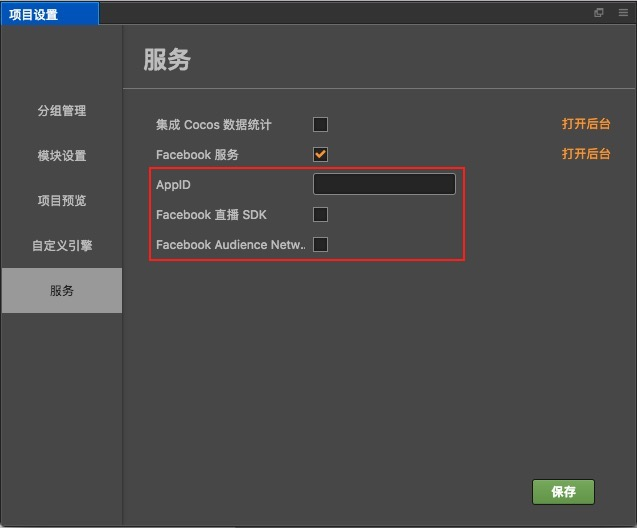
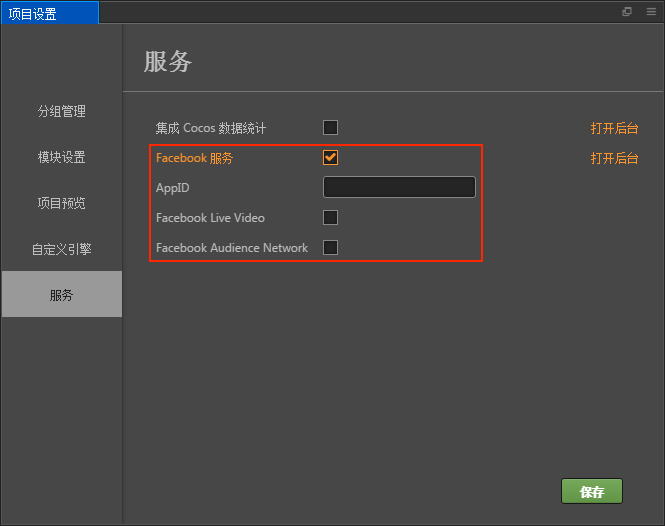
修正部分内容及增加英文版本

diff --git a/zh/sdk/fb-an-and-live.md b/zh/sdk/fb-an-and-live.md
@@ -2,56 +2,69 @@
 
 Cocos Creator 从 v2.0.6 开始支持一键集成 Facebook 服务，包括 **Facebook Live Video** 和 **Facebook Audience Network**。这两个 SDK 目前支持 Android 和 iOS 平台。
 
-Creator 为用户完成的主要工作包括：
+**Creator 为用户完成的主要工作**：
 
 - 在 Cocos Creator 项目设置面板中提供一键式集成 Facebook Live Video 和 Facebook Audience Network，并且自动进行了初始化，用户能直接调用相关的 API
 
-用户需要完成的工作：
+**用户需要完成的工作**：
 
 - 调用 Facebook Live Video 和 Facebook Audience Network 的 API，访问相关功能
 
 ## Facebook 服务集成操作步骤
 
-1、使用 Cocos Creator 打开项目工程，点击 **菜单栏 -> 项目 -> 项目设置 -> 服务**，在 **服务** 面板中有一个 **Facebook 服务**。
+一、使用 Cocos Creator 打开项目工程，点击 **菜单栏 -> 项目 -> 项目设置 -> 服务**，在 **服务** 面板中有一个 **Facebook 服务**。
 
 ![](fb-an-and-live/facebook.png)
 
 选中 **Facebook 服务**，可以看到下方有三个选项，分别为：
 
-- **AppID**：在 [Facebook 开发者后台](https://developers.facebook.com/) 的 **我的应用** 中创建一款新应用（或者之前创建过的就应用也可以）。创建完成后上方的 **应用编号** 即是 AppID。
+- **AppID**：在 [Facebook 开发者后台](https://developers.facebook.com/) 的 **我的应用** 中创建一款新应用（或者之前创建过的旧应用也可以）。创建完成后上方的 **应用编号** 即是 AppID。
 - **Facebook Live Video**：将 Facebook Live Video 集成到项目工程中
 - **Facebook Audience Network**：将 Facebook Audience Network 集成到项目工程中
 
-2、在 **项目设置 -> 服务** 中设置好需要集成的 SDK 后，打开 **构建发布** 面板，发布平台选择 **Android／iOS** 平台，其他参数用户可根据需要自行配置。配置完成后点击 **构建**。
+二、在 **项目设置 -> 服务** 中设置好需要集成的 SDK 后，打开 **构建发布** 面板，**发布平台** 选择 **Android／iOS** 平台。Android 平台的 **API Level** 选择 **android-26** 及以上。其他参数用户可根据需要自行配置。配置完成后点击 **构建**。
 
-**注意**：在 **构建 iOS 平台之前** 需要先下载 Facebook 服务相关的依赖，执行如下的命令。具体可参考 [CocoaPods 官方网站](https://cocoapods.org/)。
+**构建 iOS 平台时有以下两点注意事项**：
 
-  ```bash
-  # Xcode 8 + 9
-  $ sudo gem install cocoapods
-  ```
+  - 在 **构建之前** 需要先下载 Facebook 服务相关的依赖，在命令行中执行以下命令。具体可参考 [CocoaPods 官方网站](https://cocoapods.org/)。
 
-  若运行该命令时出现如下报错：
+    ```bash
+    # Xcode 8 + 9
+    $ sudo gem install cocoapods
+    ```
 
-  ![](fb-an-and-live/error.png)
+    若运行该命令时出现如下报错：
 
-  可运行以下命令解决：
+    ![](fb-an-and-live/error.png)
 
-  ```bash
-  $ gem source -r https://rubygems.org/
-  $ gem source -a http://rubygems.org/
-  $ sudo gem install cocoapods
-  ```
+    可运行以下命令解决：
 
-  点击 **构建** 之后，若构建失败并且在 **控制台** 出现 `Some error have occurred while adding Facebook Audience Network iOS SDK undefined`，则国内用户需要保证在命令行中执行的命令能启用墙外代理。然后重启 Creator，并删除之前的发布包，再次执行 **构建**。
+    ```bash
+    $ gem source -r https://rubygems.org/
+    $ gem source -a http://rubygems.org/
+    $ sudo gem install cocoapods
+    ```
 
-3、 构建完成后在发布包目录的 src 目录下可以看到生成了 **fb-live-stream.js** 和 **CCAds.js** 两个文件，分别对应的是 Creator 完成的对 **Facebook Live Video** 和 **Facebook Audience Network** 的封装。
+  - 若点击 **构建** 之后，构建失败并且在 **控制台** 出现 `exec pod install fail with exit code` 的报错，可在 **设置** 面板的 **常规 -> HTTP 代理服务器** 中设置 HTTP 代理（用于下载 Facebook 的 SDK）。
+
+    若设置完 HTTP 代理之后仍然构建失败，请尝试执行以下步骤：<br>
+
+    ```bash
+    # 国内用户需要保证在命令行中执行的命令能启用墙外代理
+    # 将命令行指定到项目的 /build/jsb-link/frameworks/runtime-src/proj.ios_mac 目录下
+    $ cd /YourProject/build/jsb-link/frameworks/runtime-src/proj.ios_mac
+    $ pod install
+    ```
+
+    执行完毕之后可以在 **proj.ios_mac** 目录下看到生成了 `.xcworkspace` 文件，即可直接使用 Xcode 打开进行编译。
+
+三、构建完成后在发布包目录的 src 目录下可以看到生成了 **fb-live-stream.js** 和 **CCAds.js** 两个文件，分别对应的是 Creator 完成的对 **Facebook Live Video** 和 **Facebook Audience Network** 的封装。
 
 ![](fb-an-and-live/package.png)
 
 **注意**：
 
-- 首次编译 Android 平台需要用 Android Studio 打开构建后的工程以下载所需的支持包。（如果下载失败的话建议切换网络或者设置一下 Android Studio 的 HTTP 代理）
+- 首次编译 Android 平台需要用 Android Studio 打开构建后的工程以下载 Facebook 所需的支持包。（如果下载失败的话建议切换网络或者设置一下 Android Studio 的 HTTP 代理）
 - 在使用 Xcode 编译 iOS 平台的时候需要打开的是 `.xcworkspace` 文件而不是 `.xcodeproj` 文件。
 
 ![](fb-an-and-live/xcode.png)
@@ -73,11 +86,11 @@ Creator 为用户完成的主要工作包括：
 
 Facebook Audience Network 分别有以下三种：
 
-- `cc.Ads.Banner`：弹出底部广告条
+- `cc.Ads.Banner`：弹出 banner 广告
 - `cc.Ads.RewardedVideo`：弹出奖励视频窗口广告
 - `cc.Ads.Interstitial`：弹出插屏广告
 
-以弹出底部广告条 `cc.Ads.Banner` 为例，用户可以通过创建一个新的 `cc.Ads.Banner` 对象的实例，然后根据自己的需要去调用。示例代码如下：
+以弹出 banner 广告 `cc.Ads.Banner` 为例，用户可以通过创建一个新的 `cc.Ads.Banner` 对象的实例，然后根据自己的需要去调用。示例代码如下：
 
 ```js
 banner_click(event){
@@ -112,4 +125,5 @@ banner_click(event){
 
 - Cocos Creator 提供的 [Facebook 服务集成范例工程](https://github.com/cocos-creator/facebook_demo)，包含了 **Facebook Live Video** 和 **Facebook Audience Network** 的使用示例。
 - [Facebook 开发者后台](https://developers.facebook.com/)
-- [Facebook Audience Network](https://developers.facebook.com/docs/audience-network/)
+- [Facebook Audience Network 参考文档](https://developers.facebook.com/docs/audience-network/)
+- [Facebook Live Video 参考文档](https://developers.facebook.com/docs/videos/live-video)

diff --git a/en/sdk/fb-an-and-live.md b/en/sdk/fb-an-and-live.md
@@ -1,0 +1,116 @@
+# Facebook Live Video and Audience Network
+
+Starting with v2.0.6, Cocos Creator officially supports one-click integrated Facebook services, including **Facebook Live video** and **Facebook audience network**. These two SDKs currently support Android and iOS platforms.
+
+**Cocos Creator includes**:
+
+- Provides one-click integration of Facebook Live Video and Facebook Audience Network in the Cocos Creator **Project Settings** panel, and is automatically initialized so that users can call the relevant APIs directly
+
+**What the user needs to do**:
+
+- Call the APIs of Facebook Live Video and Facebook Audience Network to access related features
+
+## Facebook Service Integration Operation Steps
+
+**First**, open the project with Cocos Creator, click on the **Menu bar -> Project -> Project Settings -> Service** and there is a **Facebook Service** in the **Service** tab.
+
+![](fb-an-and-live/facebook.png)
+
+Select the **Facebook Service** and you can see that there are three options below, namely:
+
+  - **AppID**: Create a new app (or an old app you've created before) in the [Facebook Developer Center](https://developers.facebook.com/) **My AppS -> Add New App**. The **APP ID** above when the creation is complete is AppID.
+  - **Facebook Live Video**: Integrate Facebook Live Video into Project.
+  - **Facebook Audience Network**: Integrate Facebook Audience Network into Project.
+
+**Second**, after you set up the SDK that needs to be integrated in the **Project Settings -> Service**, open the **Build** panel and the **Platform** selects the **Android/iOS** platform. The **API Level** of the Android platform selects **android-26** and above. Other parameters the user can configure themselves as needed. When the configuration is complete, click **Build**.
+
+  **Note**: **Before you build the iOS platform**, you need to download the dependencies associated with the Facebook service and execute the following command on the command line. Please refer to [CocoaPods official website](https://cocoapods.org/) for detail.
+
+  ```bash
+  # Xcode 8 + 9
+  $ sudo gem install cocoapods
+  ```
+
+  If you run the command, the following error occurs:
+
+  ![](fb-an-and-live/error.png)
+
+  You can run the following command to resolve:
+
+  ```bash
+  $ gem source -r https://rubygems.org/
+  $ gem source -a http://rubygems.org/
+  $ sudo gem install cocoapods
+  ```
+
+**Third**, after the build is complete, you can see that **fb-live-stream.js** and **CCAds.js** two files have been generated under the src directory in the build directory. Corresponding to the encapsulation of **Facebook Live Video** and **Facebook Audience Network** by Creator.
+
+![](fb-an-and-live/package.png)
+
+**Note**:
+
+- Compiling the Android platform for the first time requires using Android Studio to open the built-after project to download the support packages that Facebook needs. (If the download fails, it is recommended to switch the network or set up the HTTP proxy for Android Studio)
+- When you use Xcode to compile the iOS platform, you need to open `.xcworkspace` file instead of `.xcodeproj` file.
+
+  ![](fb-an-and-live/xcode.png)
+
+## Invoking related APIs
+
+### Facebook Live Video
+
+You can access Facebook Live Video through the `fb.liveStream` module:
+
+- `fb.liveStream.startLive();`: Start playing
+- `fb.liveStream.stopLive();`: Stop playing
+- `fb.liveStream.pauseLive();`: Pause playing
+- `fb.liveStream.resumeLive();`: Resume playing
+
+For details, please refer to the [/assets/script/live_scene.js](https://github.com/cocos-creator/facebook_demo/blob/master/assets/script/live_scene.js) file in [Sample Project](https://github.com/cocos-creator/facebook_demo).
+
+### Facebook Audience Network
+
+There are three types of Facebook Audience Network:
+
+- `cc.Ads.Banner`: Pop up banner ad
+- `cc.Ads.RewardedVideo`: Pop up reward video window ad
+- `cc.Ads.Interstitial`：Pop up placard ad
+
+Taking the pop up banner ad `cc.Ads.Banner` as an example, the user can create an instance of a new `cc.Ads.Banner` object and then call it according to your needs.
+
+The sample code is as follows:
+
+```js
+banner_click(event){
+    let banner = new cc.Ads.Banner(this.placementId.BANNER, cc.Ads.BANNER_POSITION.ALIGN_PARENT_BOTTOM);
+    this.banner = banner;
+    banner.on("onAdLoaded", () => {
+        cc.log("banner onAdLoaded");
+        this.status_tips.string = "banner loaded";
+    }, this.node);
+
+    banner.on("onError", (eCode) => {
+        cc.log("banner onError");
+        this.status_tips.string = "banner onError";
+    }, this.node);
+
+    banner.on("onAdClicked", () => {
+        cc.log("banner onAdClicked");
+        this.status_tips.string = "banner onAdClicked";
+    }, this.node);
+
+    banner.show().then(() => {
+        cc.log("banner show-------");
+    }).catch((e) => {
+        cc.log("banner reject ", e);
+    });
+},
+```
+
+`cc.Ads.RewardedVideo` and `cc.Ads.Interstitial` are called in a similar way to `cc.Ads.Banner` and you can refer the [/assets/script/an_scene.js](https://github.com/cocos-creator/facebook_demo/blob/master/assets/script/an_scene.js) file in [Sample Project](https://github.com/cocos-creator/facebook_demo). Or refer to Facebook's official documentation [Audience Network](https://developers.facebook.com/docs/audience-network).
+
+## Reference link
+
+- The Facebook Service Integration [Sample Project](https://github.com/cocos-creator/facebook_demo) provided by Cocos Creator contains **Facebook Live Video** and **Facebook Audience Network** usage example.
+- [Facebook Developer Center](https://developers.facebook.com/)
+- [Facebook Audience Network](https://developers.facebook.com/docs/audience-network)
+- [Facebook Live Video](https://developers.facebook.com/docs/videos/live-video)

diff --git a/en/sdk/index.md b/en/sdk/index.md
@@ -3,6 +3,9 @@
 - [Cocos Package](cocos-package-overview.md)
 
 - [AnySDK](anysdk-overview.md)
+
+- [Facebook Audience Network & Live Video](fb-an-and-live.md)
+
 <hr>
 
 Continue on to read about [Cocos Package](cocos-package-overview.md). Start learning third-party SDKs integrated.

diff --git a/en/SUMMARY.md b/en/SUMMARY.md
@@ -213,3 +213,4 @@
         - [AnySDK Framework](sdk/anysdk/anysdk-framework.md)
         - [Integrate AnySDK in Creator](sdk/anysdk/integrate-anysdk.md)
     - [SDKBox](sdk/sdkbox.md)
+    - [Facebook Audience Network & Live Video](sdk/fb-an-and-live.md)
